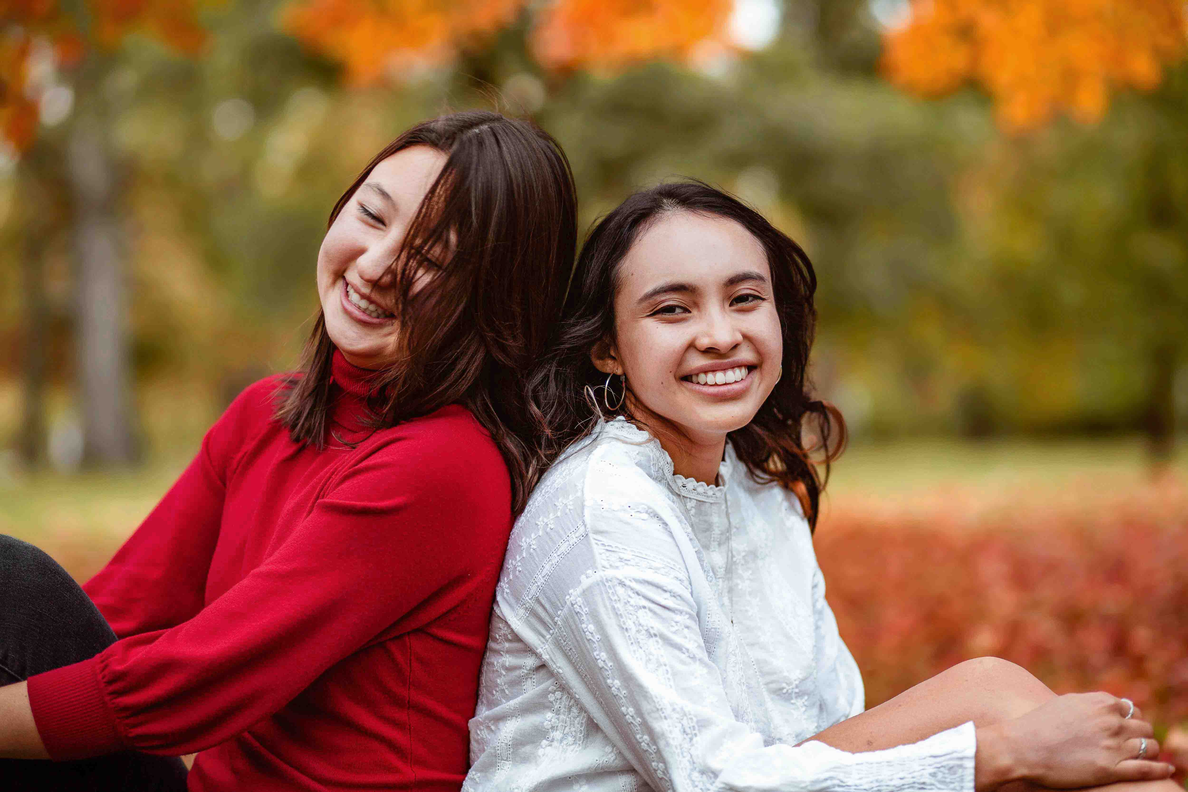
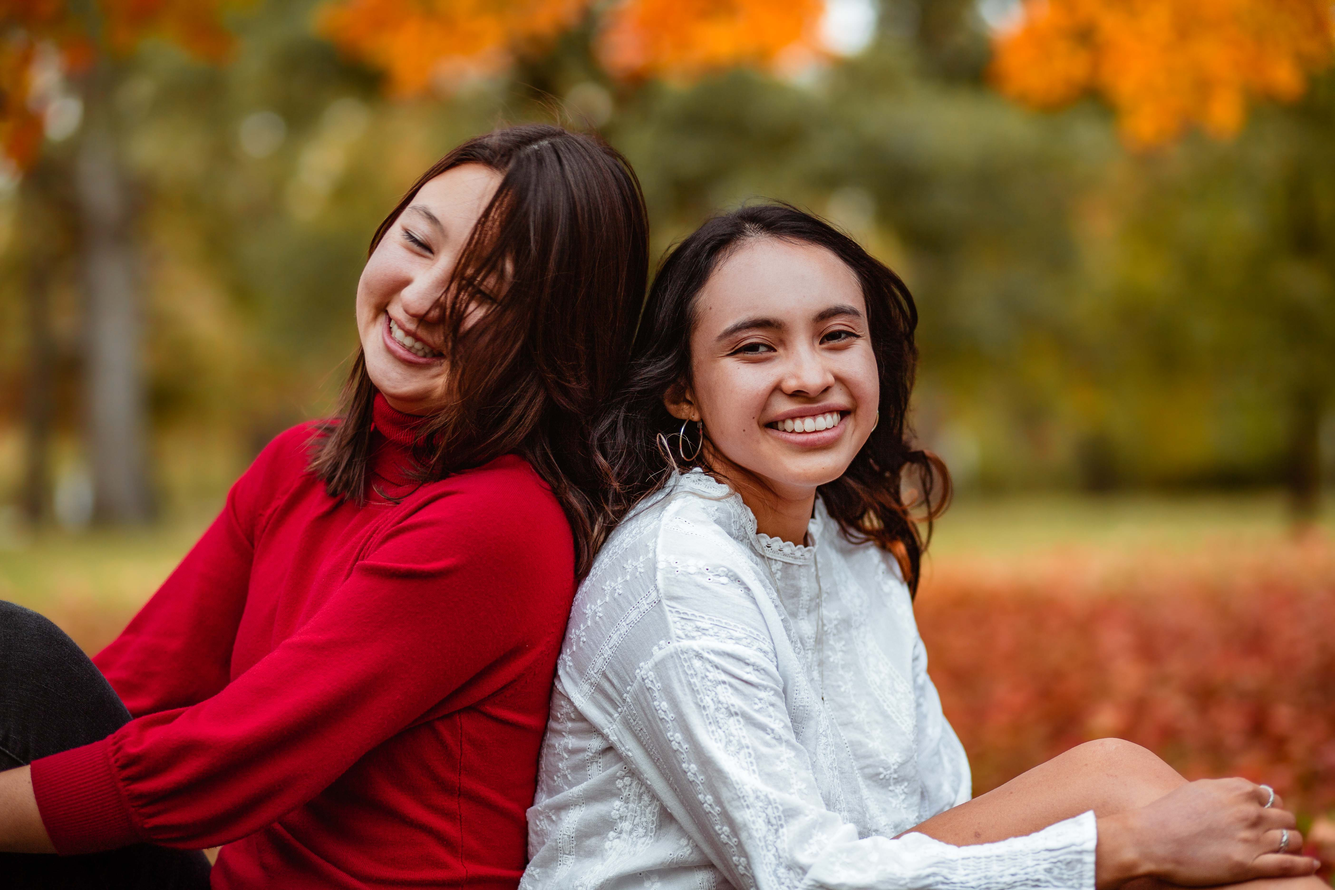
add photos

diff --git a/people/index.html b/people/index.html
@@ -31,7 +31,7 @@ title: people
         <img src="/images/pedro2.jpg" alt="portrait" style="width:100%">
         <img src="/images/ian1.jpg" alt="portrait" style="width:100%">
         <img src="/images/pragul1.jpg" alt="portrait" style="width:100%">
-        <img src="/images/.jpg" alt="portrait" style="width:100%">
+        <img src="/images/emily4.jpg" alt="portrait" style="width:100%">
         <img src="/images/pedro1.jpg" alt="portrait" style="width:100%">
     </div>
     <div class="column">
